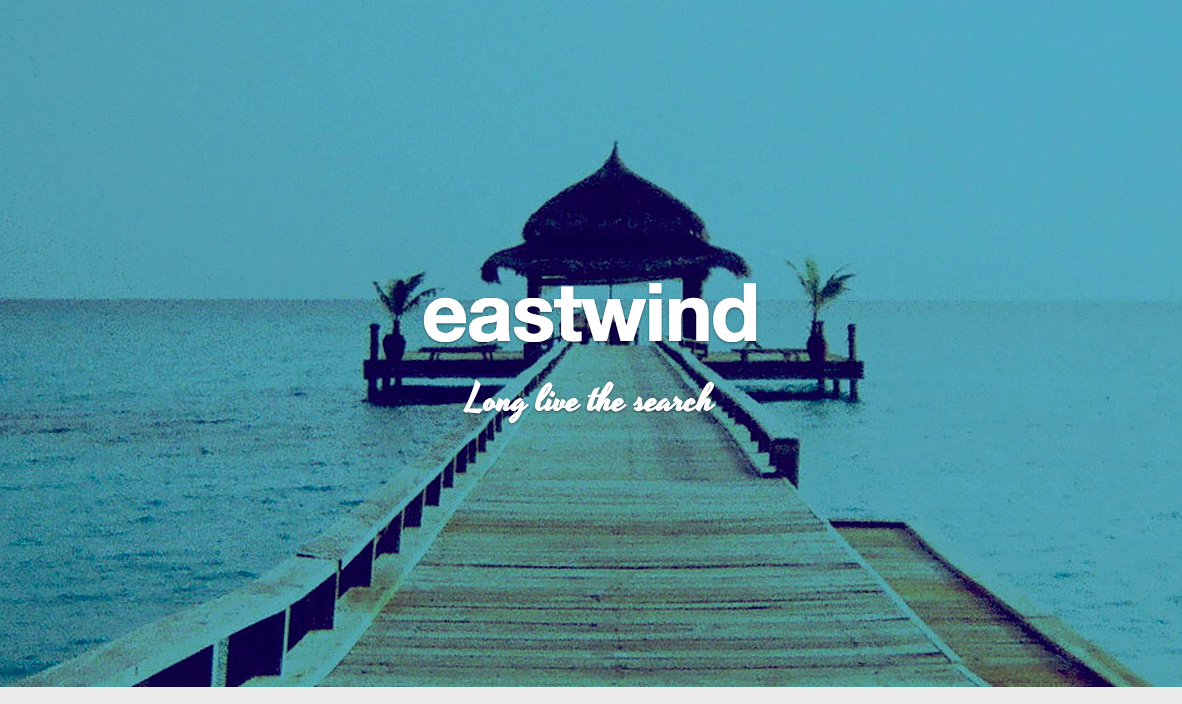
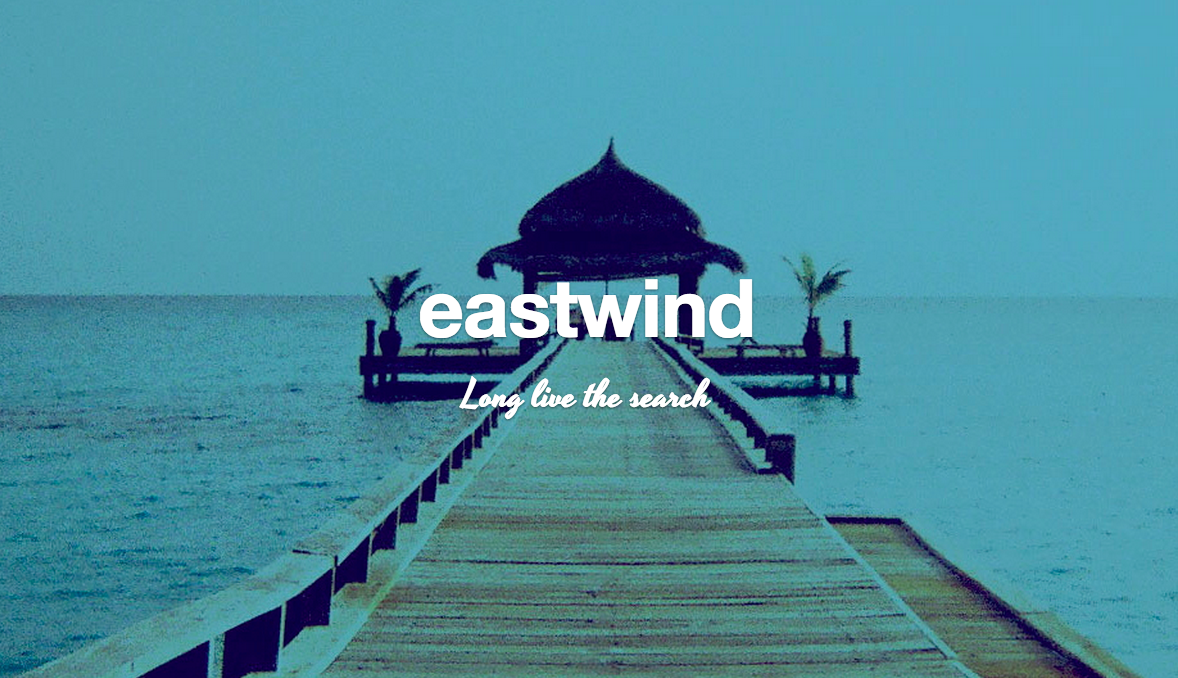
adding breakpoint

Changed region(s): [[0.0, 0.2168, 1.0, 1.0], [0.9779, 0.8673, 1.0, 0.8982]]

diff --git a/source/stylesheets/all.css.scss b/source/stylesheets/all.css.scss
@@ -2,9 +2,13 @@
 @import "normalize";
 @import "compass";
 @import "compass/css3";
+@import "breakpoint";
 @import "skeleton";
 @import "icon-fonts";
 @import "general_foundicon";
+
+
+
 
 img {
   max-width: 100%;
@@ -50,7 +54,7 @@ img {
 
 
 .about {
-  font-family: adelle;
+  font-family: "adelle";
   text-align: left;
   font-size: 22px;
   line-height: 1.6;
@@ -64,10 +68,11 @@ img {
    display: inline;
  }
  h2 {
-  font-family: "ltc-bodoni-175";
+  font-family: "adelle";
   font-size: 48px;
   text-align: center;
  }
+}
  a {
    position: relative;
    display: block;
@@ -89,7 +94,6 @@ img {
      }
    }
  }
-}
 
 
 .container {
@@ -116,6 +120,14 @@ img {
   }
 }
 
-
-
-
+.treehouse {
+  .container {
+   font-family: "adelle";
+   font-size: 24px;
+   text-align: center;
+   padding-top: 10px;
+  }
+  a {
+    display: block;
+  }
+}

diff --git a/config.rb b/config.rb
@@ -3,9 +3,10 @@
 ###
 
 # Change Compass configuration
-# compass_config do |config|
-#   config.output_style = :compact
-# end
+compass_config do |config|
+  require 'breakpoint'
+  config.output_style = :compact
+end
 
 ###
 # Page options, layouts, aliases and proxies
